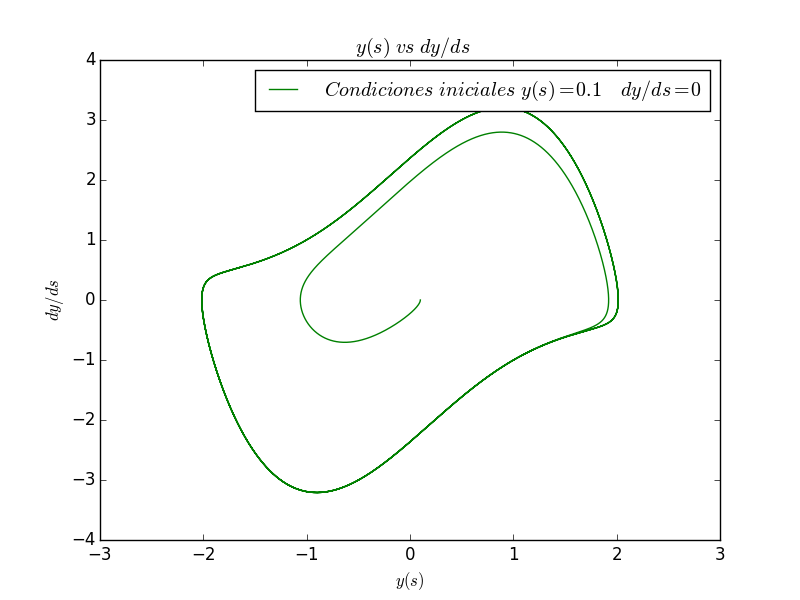
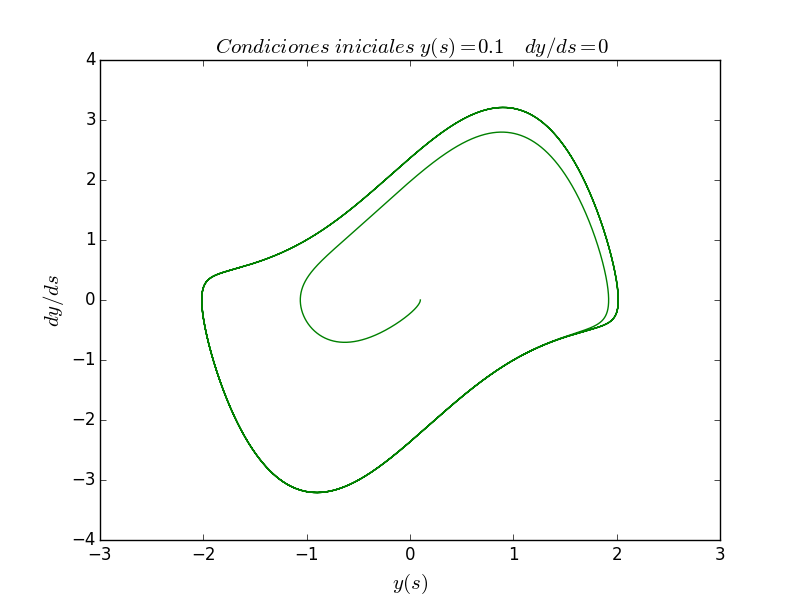
cambio en graficos

Changed region(s): [[0.2812, 0.06, 0.9062, 0.21], [0.0625, 0.45, 0.0938, 0.54], [0.4688, 0.96, 0.5312, 0.99]]

diff --git a/t3.py b/t3.py
@@ -58,11 +58,11 @@ for i in range(1, N_steps):
 t_rk= [h * i for i in range(N_steps)]
 plt.figure(1)
 plt.figure(1).clf()
-plt.plot(y, v, 'g', label = "$\ Condiciones \ iniciales \ y(s)=0.1 \; \ dy/ds=0$")
-plt.legend()
-plt.title("$ \ y(s) \ vs \ dy/ds$")
-plt.xlabel('$y(s)$')
-plt.ylabel('$dy/ds$')
+plt.plot(y, v, 'g')
+#plt.legend()
+plt.title("$ \ Condiciones \ iniciales \ y(s)=0.1 \; \ dy/ds=0$", fontsize=15)
+plt.xlabel('$y(s)$',fontsize=15)
+plt.ylabel('$dy/ds$',fontsize=15)
 plt.savefig("fig1.png")
 plt.show()
 
@@ -74,26 +74,24 @@ v2[0]=0
 for i in range(1,N_steps):
     y2[i],v2[i]= rk3_step(y2[i-1], v2[i-1], h, f)
 
-plt.plot(y2,v2,'r', label = "$\ Condiciones \ iniciales \ y(s)=4 \ ; \ dy/ds=0$")
-plt.legend()
-plt.title("$ \ y(s) \ vs \ dy/ds$", fontsize=20)
-plt.xlabel('$y(s)$',fontsize=20)
-plt.ylabel('$dy/ds$',fontsize=20)
+plt.plot(y2,v2,'r')
+#plt.legend()
+plt.title("$ \ Condiciones \ iniciales \ y(s)=4 \ ; \ dy/ds=0$ ", fontsize=15)
+plt.xlabel('$y(s)$',fontsize=15)
+plt.ylabel('$dy/ds$',fontsize=15)
 plt.savefig("fig2.png")
 plt.show()
 
 plt.figure(3)
 plt.figure(3).clf()
 
-plt.plot(t_rk,y2,'r',label = " $\ Condiciones \ iniciales \ y(s)=4 \ dy/ds= 0$")
-
+plt.plot(t_rk,y2,'r', label= "$ \ condiciones \ iniciales \ y(s)=4 \ ; \ dy/ds=0$")
 plt.legend()
-plt.plot(t_rk,y,'b', label =" $\ Condiciones \ iniciales \ y(s)=0.1 \ dy/ds= 0$")
+plt.plot(t_rk,y,'b', label = "$ \ condiciones \ iniciales \ y(s)=0.1 \ ; \ dy/ds=0$")
 plt.legend()
-#plt.xlabel('$y(s)$')
-plt.title(" $ \ y \ vs \ s$",fontsize=20)
-plt.ylabel('$y(s)$',fontsize=20)
-plt.xlabel("$s$",fontsize=20)
+plt.title(" $ \ Y \ vs \ S$",fontsize=15)
+plt.ylabel('$y(s)$',fontsize=15)
+plt.xlabel("$s$",fontsize=15)
 plt.savefig("fig3.png")
 
 plt.show()
